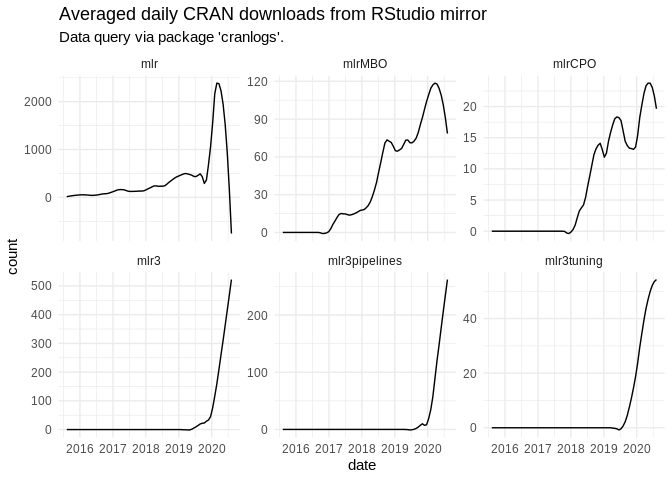
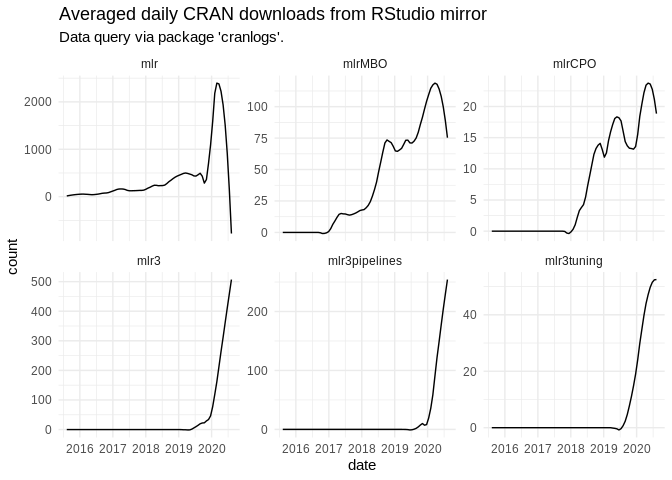
Deploy from Travis build 283 [ci skip]
Build URL: https://travis-ci.org/mlr-org/mlrcranlog/builds/716225772
Commit: 26069d0fc27a86f430a0c4348db3e61f978edf73

diff --git a/README.md b/README.md
@@ -9,7 +9,7 @@
 
 Created on
 
-    ## [1] "2020-08-08"
+    ## [1] "2020-08-09"
 
 <details>
 
